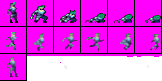
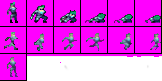
Better Hero.png and added hero to title screen.

diff --git a/src/Maps/TitleScreenMap.java b/src/Maps/TitleScreenMap.java
@@ -11,20 +11,20 @@ import Utils.Point;
 // Represents the map that is used as a background for the main menu and credits menu screen
 public class TitleScreenMap extends Map {
 
-    private Sprite cat;
+    private Sprite hero;
 
     public TitleScreenMap() {
         super("title_screen_map.txt", new EarthTileset());
-        Point catLocation = getMapTile(6, 8).getLocation().subtractX(24).subtractY(6);
-        cat = new Sprite(ImageLoader.loadSubImage("Cat.png", Colors.MAGENTA, 0, 0, 24, 24));
-        cat.setScale(3);
-        cat.setLocation(catLocation.x, catLocation.y);
+        Point heroLocation = getMapTile(6, 8).getLocation().subtractX(24).subtractY(20);
+        hero = new Sprite(ImageLoader.loadSubImage("Hero.png", Colors.MAGENTA, 0, 54, 26, 26));
+        hero.setScale(3);
+        hero.setLocation(heroLocation.x, heroLocation.y);
     }
 
     @Override
     public void draw(GraphicsHandler graphicsHandler) {
         super.draw(graphicsHandler);
-        cat.draw(graphicsHandler);
+        hero.draw(graphicsHandler);
     }
 
 }
